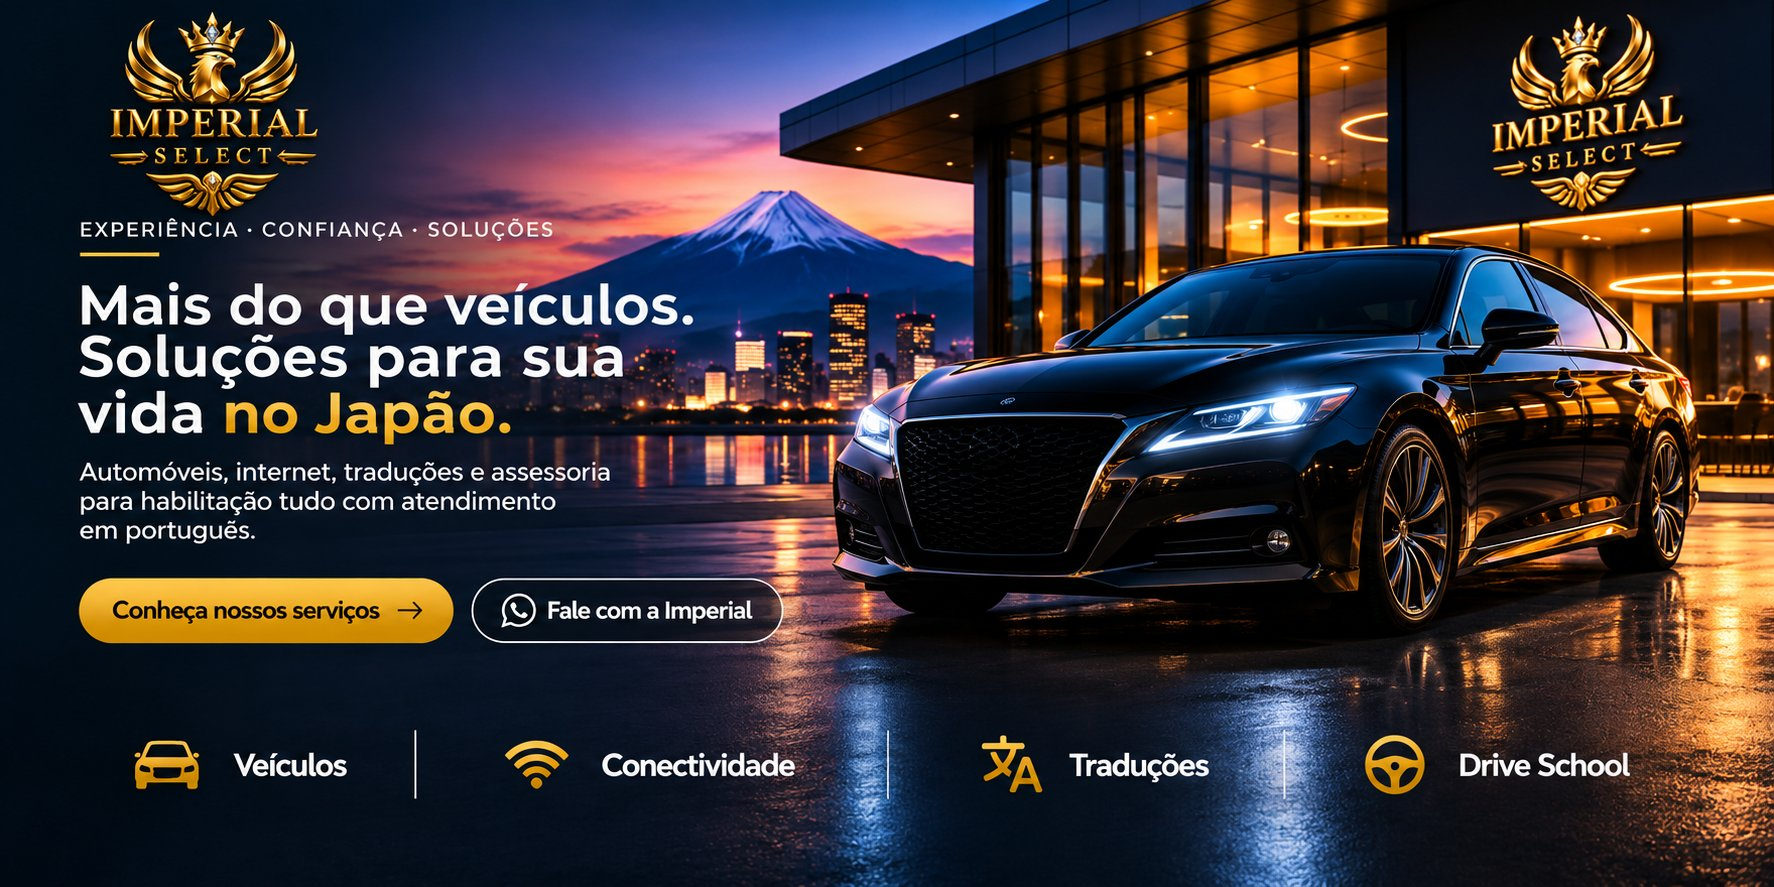
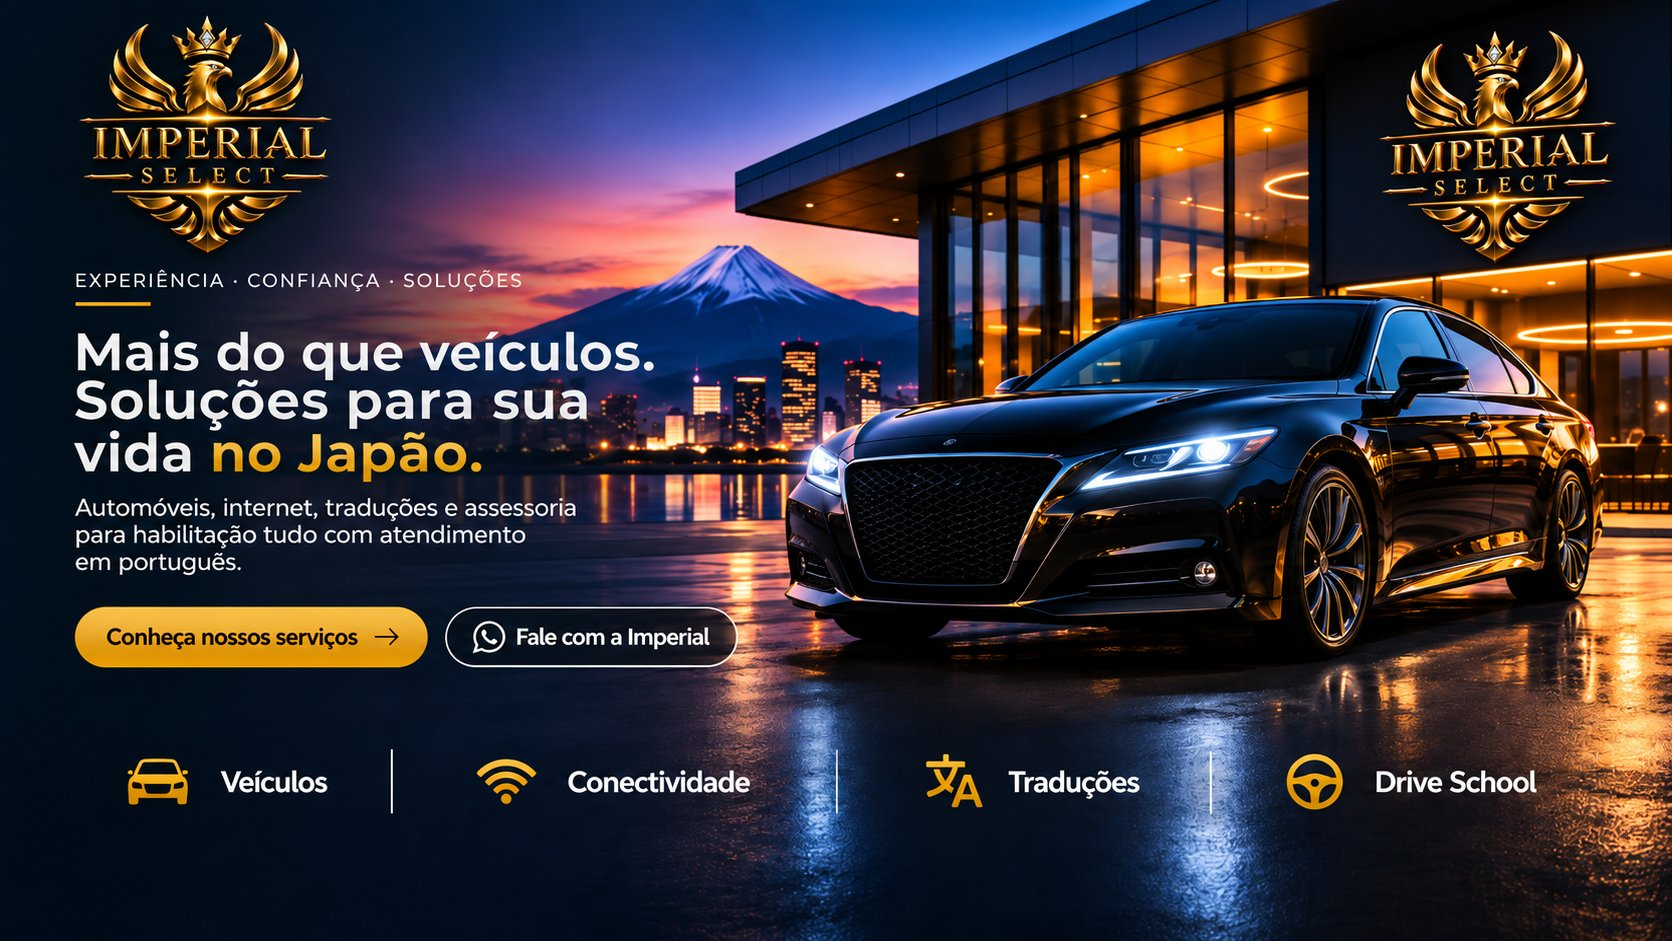
Arte do hero substituída pelo arquivo definitivo enviado pelo Minoru (1672x941): logotipos da arte conferem com o oficial; hotspots remedidos na nova arte e recorte mobile regenerado dela

diff --git a/site.html b/site.html
@@ -307,17 +307,17 @@ footer{border-top:1px solid var(--linha);padding:64px 0 34px;background:var(--pr
   <div class="hero-wrap">
     <picture>
       <source srcset="assets/imperial-hero.webp" type="image/webp">
-      <img src="assets/imperial-hero.png" data-i18n-alt="heroAlt" alt="" fetchpriority="high" width="1774" height="887">
+      <img src="assets/imperial-hero.png" data-i18n-alt="heroAlt" alt="" fetchpriority="high" width="1672" height="941">
     </picture>
-    <a class="hotspot" style="left:3.4%;top:62.6%;width:23%;height:9.4%" href="#divisoes" data-i18n-aria="heroCta1"></a>
-    <button type="button" class="hotspot" style="left:25.8%;top:62.6%;width:20.4%;height:9.4%" data-service="geral-atendimento" data-i18n-aria="heroCta2"></button>
-    <a class="hotspot" style="left:6.2%;top:80.8%;width:14%;height:9.6%" href="#veiculos" data-i18n-aria="navVeiculos"></a>
-    <a class="hotspot" style="left:27.4%;top:80.8%;width:18.6%;height:9.6%" href="#conectividade" data-i18n-aria="navConect"></a>
-    <a class="hotspot" style="left:54.2%;top:80.8%;width:14.6%;height:9.6%" href="#traducoes" data-i18n-aria="navTrad"></a>
-    <a class="hotspot" style="left:75.8%;top:80.8%;width:17%;height:9.6%" href="#driveschool" data-i18n-aria="navDrive"></a>
+    <a class="hotspot" style="left:3.6%;top:63.3%;width:21.6%;height:8.7%" href="#divisoes" data-i18n-aria="heroCta1"></a>
+    <button type="button" class="hotspot" style="left:25.7%;top:63.3%;width:19.6%;height:8.7%" data-service="geral-atendimento" data-i18n-aria="heroCta2"></button>
+    <a class="hotspot" style="left:6.6%;top:80.4%;width:15.6%;height:7.7%" href="#veiculos" data-i18n-aria="navVeiculos"></a>
+    <a class="hotspot" style="left:27.2%;top:80.5%;width:18.7%;height:7.9%" href="#conectividade" data-i18n-aria="navConect"></a>
+    <a class="hotspot" style="left:54.2%;top:80%;width:15.7%;height:8.3%" href="#traducoes" data-i18n-aria="navTrad"></a>
+    <a class="hotspot" style="left:75.8%;top:80%;width:17.2%;height:8.8%" href="#driveschool" data-i18n-aria="navDrive"></a>
   </div>
   <div class="hero-mob">
-    <div class="hero-mob-foto"><picture><source srcset="assets/imperial-hero-mobile.webp" type="image/webp"><img src="assets/imperial-hero-mobile.png" alt="" width="958" height="656" fetchpriority="high"></picture></div>
+    <div class="hero-mob-foto"><picture><source srcset="assets/imperial-hero-mobile.webp" type="image/webp"><img src="assets/imperial-hero-mobile.png" alt="" width="911" height="696" fetchpriority="high"></picture></div>
     <div class="wrap hero-mob-in">
       <p class="micro" data-i18n="heroMicro"></p>
       <h1 class="hero-mob-h1" data-i18n="heroH1"></h1>
